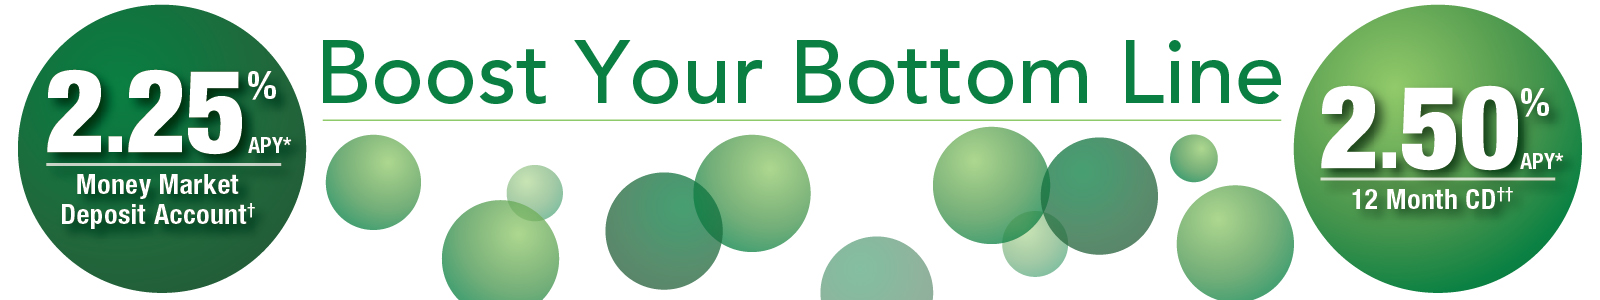
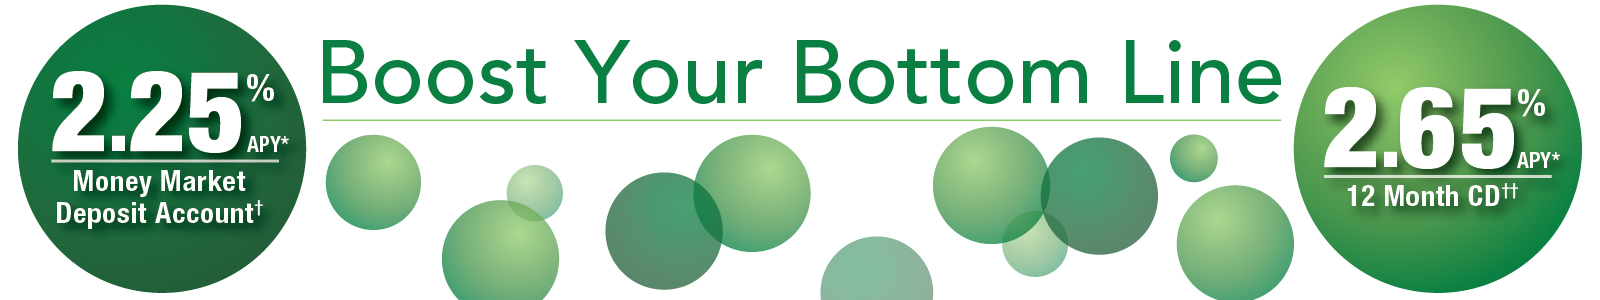
updated images and rates

diff --git a/savings.html b/savings.html
@@ -138,7 +138,7 @@
               </div>
             </div><!-- row -->
             <div class="row spacer">
-              <p class="small para-margin"><sup>*</sup>Annual Percentage Yield (APY) <sup>†</sup>Money Market Deposit Account: Promotional rate of 2.25% APY for new accounts effective as of 11/12/18 and guaranteed for the first 365 days after account opening. Promotional rate offered on $10,000.00 or more of new money not currently on deposit within last 30 days with CIBM Bank. Minimum opening deposit of $100.00. The interest rate is subject to change at any time after initial 365 days. As of 10/10/18 Personal Money Market balances of $0.00-$9,999.99 (.08% APY); $10,000.00-$24,999.99 (.10% APY); $25,000.00-$49,999.99 (.13% APY); $50,000.00-$99,999.99 (.14% APY); $100,000.00 and above (.15% APY). Monthly fee $2.00 per debit if $1,000.00 minimum balance not maintained. As of 10/10/18 Business Money Market balances of $0.00-$9,999.99 (.08% APY); $10,000.00-$24,999.99 (.10% APY); $25,000.00-$49,999.99 (.13% APY); $50,000.00-$99,999.99 (.14% APY); $100,000.00 and above (.15% APY). Monthly fee $15.00 service charge if $5,000.00 minimum balance not maintained. Fees may reduce earnings. Accounts closed within 6 months of opening date subject to a $25.00 closing fee.  <sup>††</sup>12 Month Certificate of Deposit & IRA: Promotional rate of 2.50% (APY) effective as of 10/29/18 and guaranteed for the term of the account. Offer limited to $10,000.00 or more of new money not currently on deposit within last 30 days with CIBM Bank. Minimum opening deposit of $2,500.00 and a maximum of $250,000.00. Withdrawals made prior to maturity may be subject to an early withdrawal penalty. Offer not available in combination with any other offer.</p>
+              <p class="small para-margin"><sup>*</sup>Annual Percentage Yield (APY) <sup>†</sup>Money Market Deposit Account: Promotional rate of 2.25% APY for new accounts effective as of 11/12/18 and guaranteed for the first 365 days after account opening. Promotional rate offered on $10,000.00 or more of new money not currently on deposit within last 30 days with CIBM Bank. Minimum opening deposit of $100.00. The interest rate is subject to change at any time after initial 365 days. As of 10/10/18 Personal Money Market balances of $0.00-$9,999.99 (.08% APY); $10,000.00-$24,999.99 (.10% APY); $25,000.00-$49,999.99 (.13% APY); $50,000.00-$99,999.99 (.14% APY); $100,000.00 and above (.15% APY). Monthly fee $2.00 per debit if $1,000.00 minimum balance not maintained. As of 10/10/18 Business Money Market balances of $0.00-$9,999.99 (.08% APY); $10,000.00-$24,999.99 (.10% APY); $25,000.00-$49,999.99 (.13% APY); $50,000.00-$99,999.99 (.14% APY); $100,000.00 and above (.15% APY). Monthly fee $15.00 service charge if $5,000.00 minimum balance not maintained. Fees may reduce earnings. Accounts closed within 6 months of opening date subject to a $25.00 closing fee.  <sup>††</sup>12 Month Certificate of Deposit & IRA: Promotional rate of 2.65% (APY) effective as of 11/14/18 and guaranteed for the term of the account. Offer limited to $10,000.00 or more of new money not currently on deposit within last 30 days with CIBM Bank. Minimum opening deposit of $2,500.00 and a maximum of $250,000.00. Withdrawals made prior to maturity may be subject to an early withdrawal penalty. Offer not available in combination with any other offer.</p>
             </div><!-- row -->
             <div class="row spacer">
               <div class="col-md-6">
